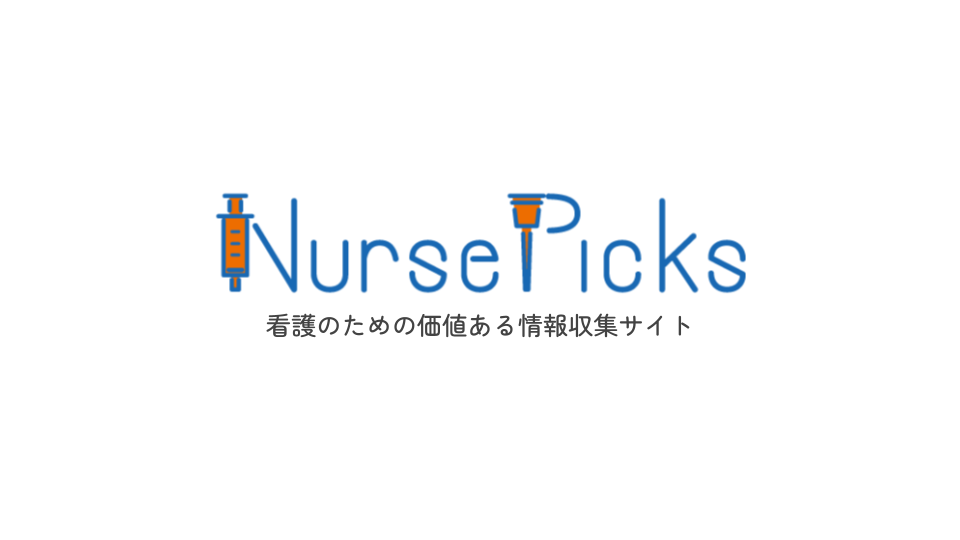
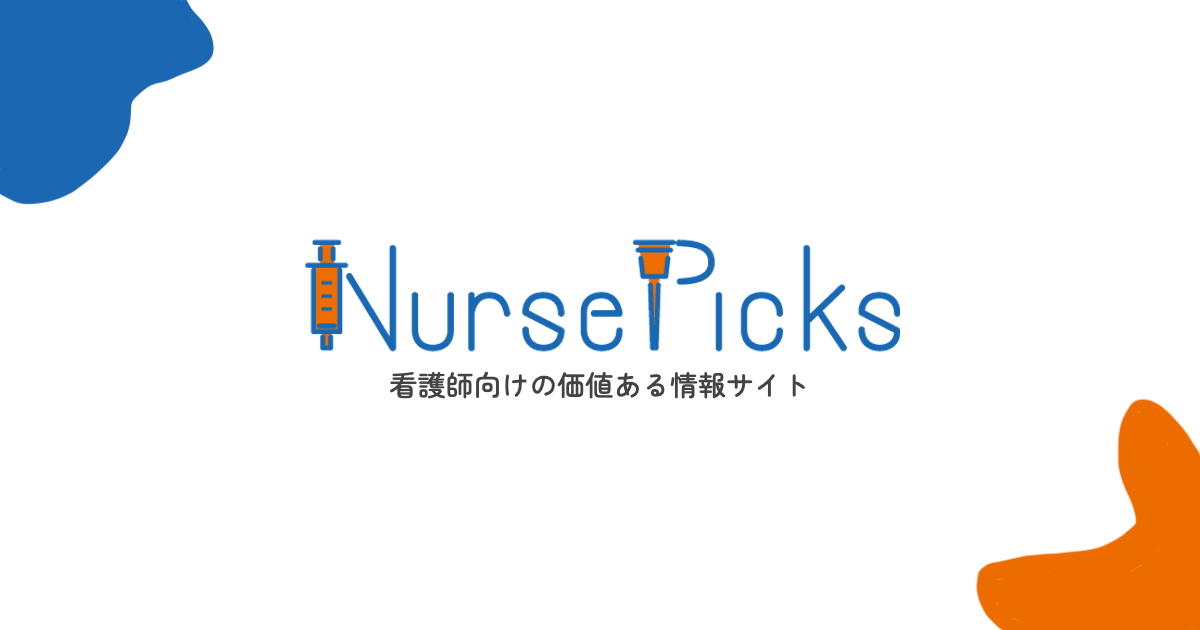
metaタグ内の文言の修正、ogp画像の差し替え

Changed region(s): [[0.2188, 0.3556, 0.7812, 0.6519], [0.0, 0.0, 0.1875, 0.3259], [0.8125, 0.6222, 1.0, 1.0]]

diff --git a/app/helpers/meta_tags_helper.rb b/app/helpers/meta_tags_helper.rb
@@ -3,12 +3,10 @@
 module MetaTagsHelper
   def default_meta_tags # rubocop:disable Metrics/MethodLength
     {
-      site: 'NursePicks',
       title: 'NursePicks',
       reverse: true,
-      separator: '|',
       charset: 'utf-8',
-      description: '看護師さんのための情報収集サイト。看護に関する価値ある記事を探したり、おすすめの記事を投稿しよう',
+      description: '看護師向けの価値ある情報サイト。価値ある看護記事を探したり、おすすめの看護記事を投稿しよう',
       keywords: '看護師,情報収集,看護記事,看護研究',
       viewport: 'width=device-width, initial-scale=1.0',
       icon: [
@@ -19,7 +17,7 @@ module MetaTagsHelper
         title: :title,
         description: :description,
         type: 'website',
-        url: 'https://nursepicks.herokuapp.com/',
+        url: 'https://www.nursepicks.com/',
         image: image_url('ogp.png'),
         locale: 'ja_JP'
       },
@@ -29,7 +27,7 @@ module MetaTagsHelper
         site: '@garammasala29',
         description: :description,
         image: image_url('ogp.png'),
-        domain: 'https://nursepicks.herokuapp.com/'
+        domain: 'https://www.nursepicks.com/'
       }
     }
   end
